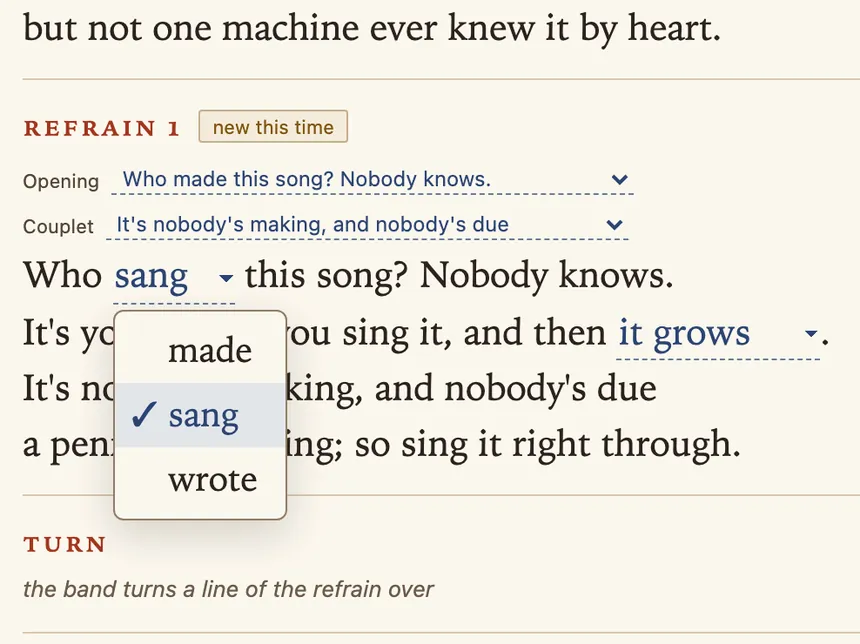
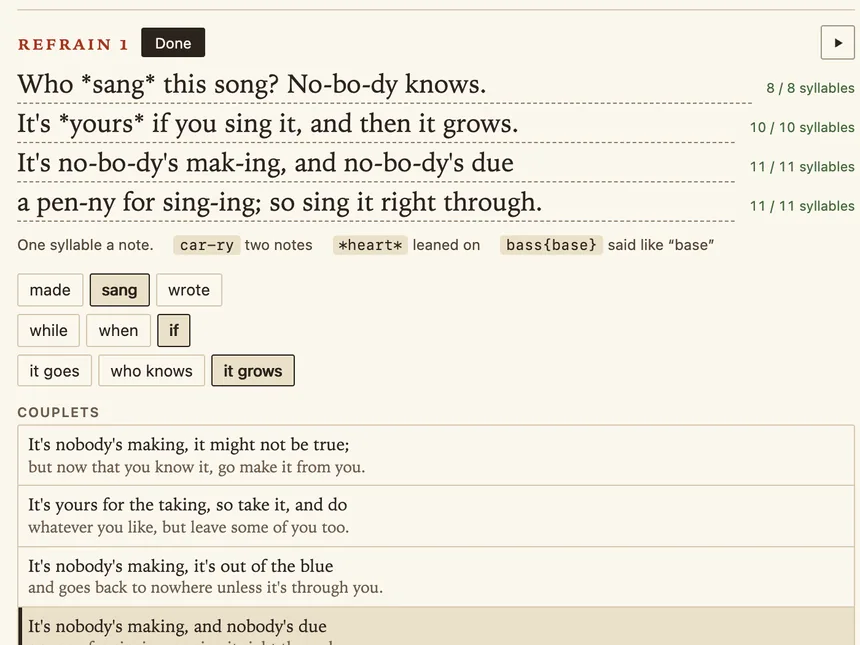
The home page's four studio pictures, taken again from the studio as it looks now, and the tools that take them
Page is a refrain being edited (its fields and counts, the legend, the words to swap, its couplets), Mix has the voice's strip with mute and solo beside the players, Arrange and Sing are as they were described. tools/site_pictures.mjs takes them from the web studio served here (headless Chromium at 2x, light colours) and tools/site_pictures.py makes the 860 x 645 WebP files.

diff --git a/web/sing/page/seed.html b/web/sing/page/seed.html
@@ -54,7 +54,7 @@
     <p>The studio opens your version of the song for today, in your browser.</p>
     <div class="tabs">
       <figure>
-        <img src="/tab-page.webp" width="860" height="645" loading="lazy" alt="The Page view: the first refrain's line open on a choice of made, sang or wrote, with its opening and couplet chosen above it.">
+        <img src="/tab-page.webp" width="860" height="645" loading="lazy" alt="The Page view: the first refrain being edited, its lines as fields with their syllable counts, the words that can be swapped under them, and its other couplets in a list.">
         <figcaption><b>Page</b></figcaption>
       </figure>
       <figure>
@@ -62,7 +62,7 @@
         <figcaption><b>Arrange</b></figcaption>
       </figure>
       <figure>
-        <img src="/tab-mix.webp" width="860" height="645" loading="lazy" alt="The Mix view: five players' level and pan, the whistle's fader moved up from 92% to 139%.">
+        <img src="/tab-mix.webp" width="860" height="645" loading="lazy" alt="The Mix view: four players' level and pan, the whistle's fader moved up from 98% to 139%, and the voice's strip with mute and solo.">
         <figcaption><b>Mix</b></figcaption>
       </figure>
       <figure>

diff --git a/tools/site_pictures.py b/tools/site_pictures.py
@@ -1,0 +1,27 @@
+"""The home page's studio pictures, from the screenshots tools/site_pictures.mjs takes: each to 860 x 645 WebP in
+web/sing/page/ (tab-page.webp, tab-arrange.webp, tab-mix.webp, tab-sing.webp).
+
+usage: uv run python tools/site_pictures.py SHOTS_DIR
+"""
+
+import sys
+from pathlib import Path
+
+from PIL import Image
+
+ROOT = Path(__file__).resolve().parent.parent
+SIZE = (860, 645)
+
+
+def main(shots: str) -> None:
+    for name in ("page", "arrange", "mix", "sing"):
+        picture = Image.open(Path(shots) / f"{name}.png").convert("RGB").resize(SIZE, Image.LANCZOS)
+        out = ROOT / "web" / "sing" / "page" / f"tab-{name}.webp"
+        picture.save(out, "WEBP", quality=82, method=6)
+        print(f"{out.relative_to(ROOT)}: {out.stat().st_size // 1024} KB")
+
+
+if __name__ == "__main__":
+    if len(sys.argv) != 2:
+        raise SystemExit(__doc__)
+    main(sys.argv[1])

diff --git a/docs/HOME-PAGE.md b/docs/HOME-PAGE.md
@@ -22,10 +22,11 @@ September 28), so it would take about 26 minutes, for guides only singers' own p
 
 **The studio's pictures** (web/sing/page/tab-page.webp, tab-arrange.webp, tab-mix.webp, tab-sing.webp, 860 x 645
 each) are four close crops, one of each view with something being changed in it and nothing shared between them:
-a refrain's line open on its other words (Page), a refrain's players set to hard (Arrange), the whistle's fader
-moved (Mix), the lane while a line is sung (Sing). Taken October 7, 2026 with headless Chromium (Playwright) at 2x;
-Page, Arrange and Mix from the live studio, Sing from the studio run here with a stand-in microphone. Two by two
-on a wide screen, a row to swipe on a phone. Take them again when the studio's look changes.
+a refrain being edited (Page), a refrain's players set to hard (Arrange), the whistle's fader moved beside the
+voice's strip (Mix), the lane while a line is sung (Sing). `tools/site_pictures.mjs` takes them from the web studio
+served on this computer with headless Chromium (Playwright) at 2x, in the light colours, and `tools/site_pictures.py`
+makes the WebP files; both say how to run them. Two by two on a wide screen, a row to swipe on a phone. Take them
+again when the studio's look changes.
 
 **The source code.** `SOURCE_PUBLIC` in tools/sing_site.py is off. Turned on (once github.com/quadule/songbird
 is public, with the tag `first-version` on 10dc1e0 pushed), the home page links the repository and the history
